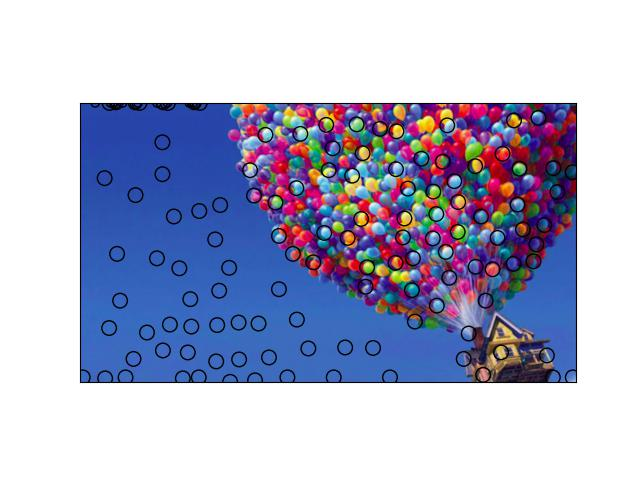
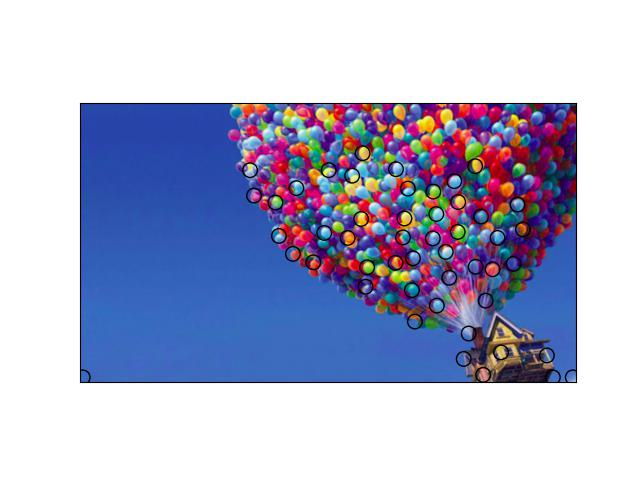
added numba support to make it faster, also produced better image plots by tuning the theta parameters

diff --git a/lab1/box_detection_utils.py b/lab1/box_detection_utils.py
@@ -1,4 +1,4 @@
-import cv2
+import numba
 import numpy as np
 from intro_utils import LogMetric
 from intro_utils import InterestPointCoord
@@ -8,6 +8,7 @@ def IntegralImage(i):
     # this definitely works
     return np.cumsum(np.cumsum(i, axis=0), axis=1)
 
+@numba.jit
 def BoxDerivative(ii, sigma):
     # this needs extremely hard checking
 
@@ -29,10 +30,8 @@ def BoxDerivative(ii, sigma):
     width = int(2*np.floor(n/6) + 1)
     padding = int(np.ceil(n/2))
     mid = int(np.ceil((n-height)/2))
-    #print(ii)
     iip = np.pad(ii, ((padding, 0), (padding, 0)), 'constant')
     iip = np.pad(iip, ((0, padding), (0, padding)), 'edge')
-    #print(iip)
     
     x, y = ii.shape
     lxx = np.zeros((x,y))
@@ -60,8 +59,7 @@ def BoxDerivative(ii, sigma):
             br = (tlx + height - 1, iy + 3*width - 1)
             lxx[ix, iy] += (iip[tl] - iip[tr] + iip[br] - iip[bl])
 
-            # ============ calculate y gradient ============ #
-            
+            # ============ calculate y gradient ============ #            
             tly = iy + mid
             tl = (ix, tly)
             tr = (ix, tly + height - 1)
@@ -82,7 +80,6 @@ def BoxDerivative(ii, sigma):
             lyy[ix, iy] += (iip[tl] - iip[tr] + iip[br] - iip[bl])
 
             # ============ calculate xy gradient ============ #
-
             tlh = ix + 1
             tlw = iy + 1
             tl = (tlh, tlw)

diff --git a/lab1/box_detection.py b/lab1/box_detection.py
@@ -20,7 +20,7 @@ def boxtest():
 
     # play around with the parameters
     sigma = 2.5
-    theta = 0.03
+    theta = 0.05
 
     blobs = BoxFilters(gray, sigma, theta)
     interest_points_visualization(up, blobs, None)
@@ -28,7 +28,7 @@ def boxtest():
 
     # play around with the parameters
     sigma = 2.5
-    theta = 0.3
+    theta = 0.6
     scale = 1.1
     N = 8
 
